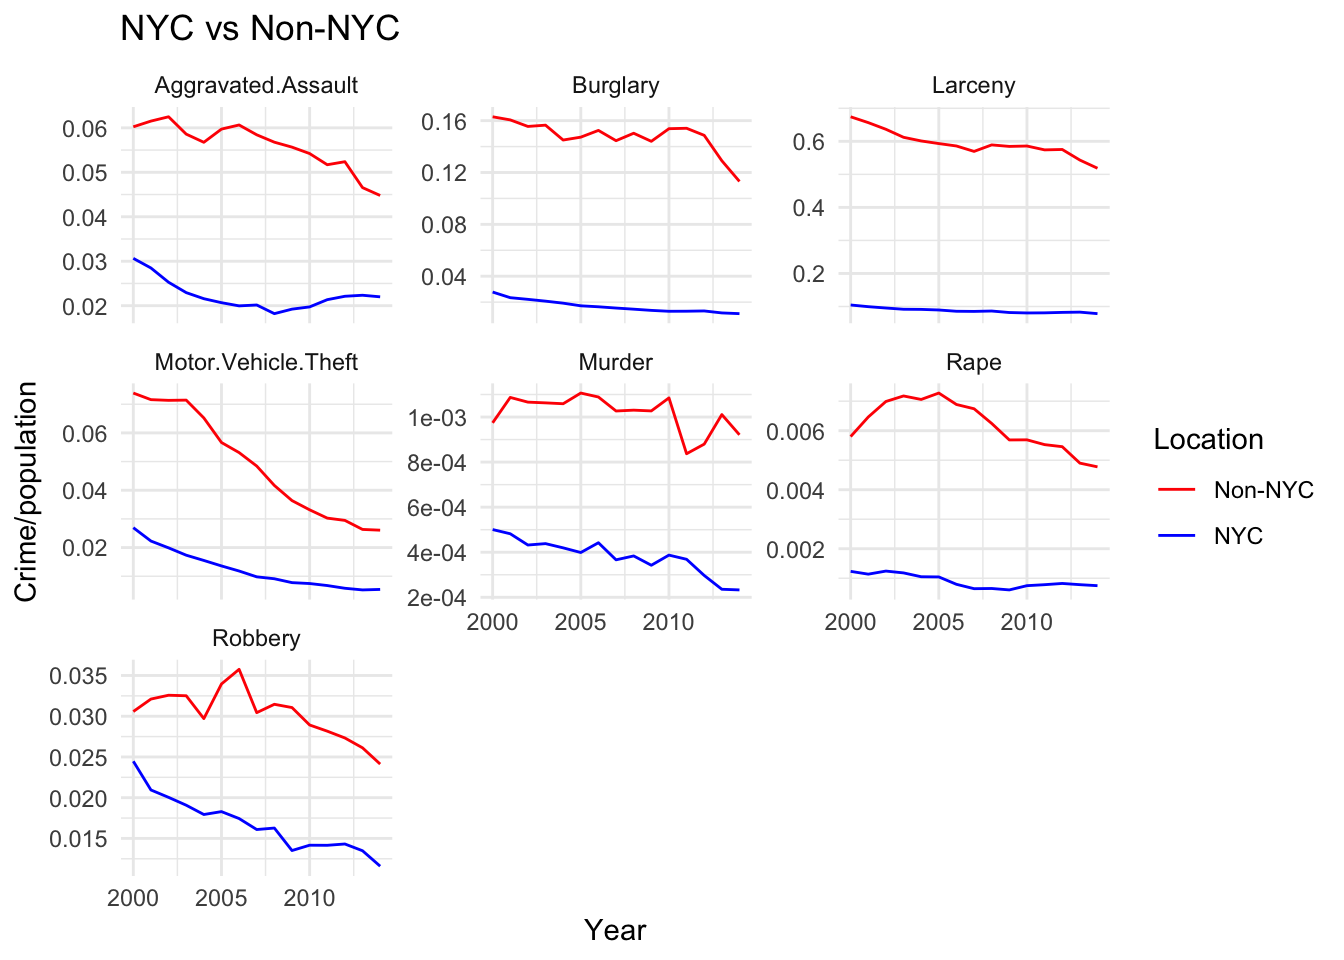
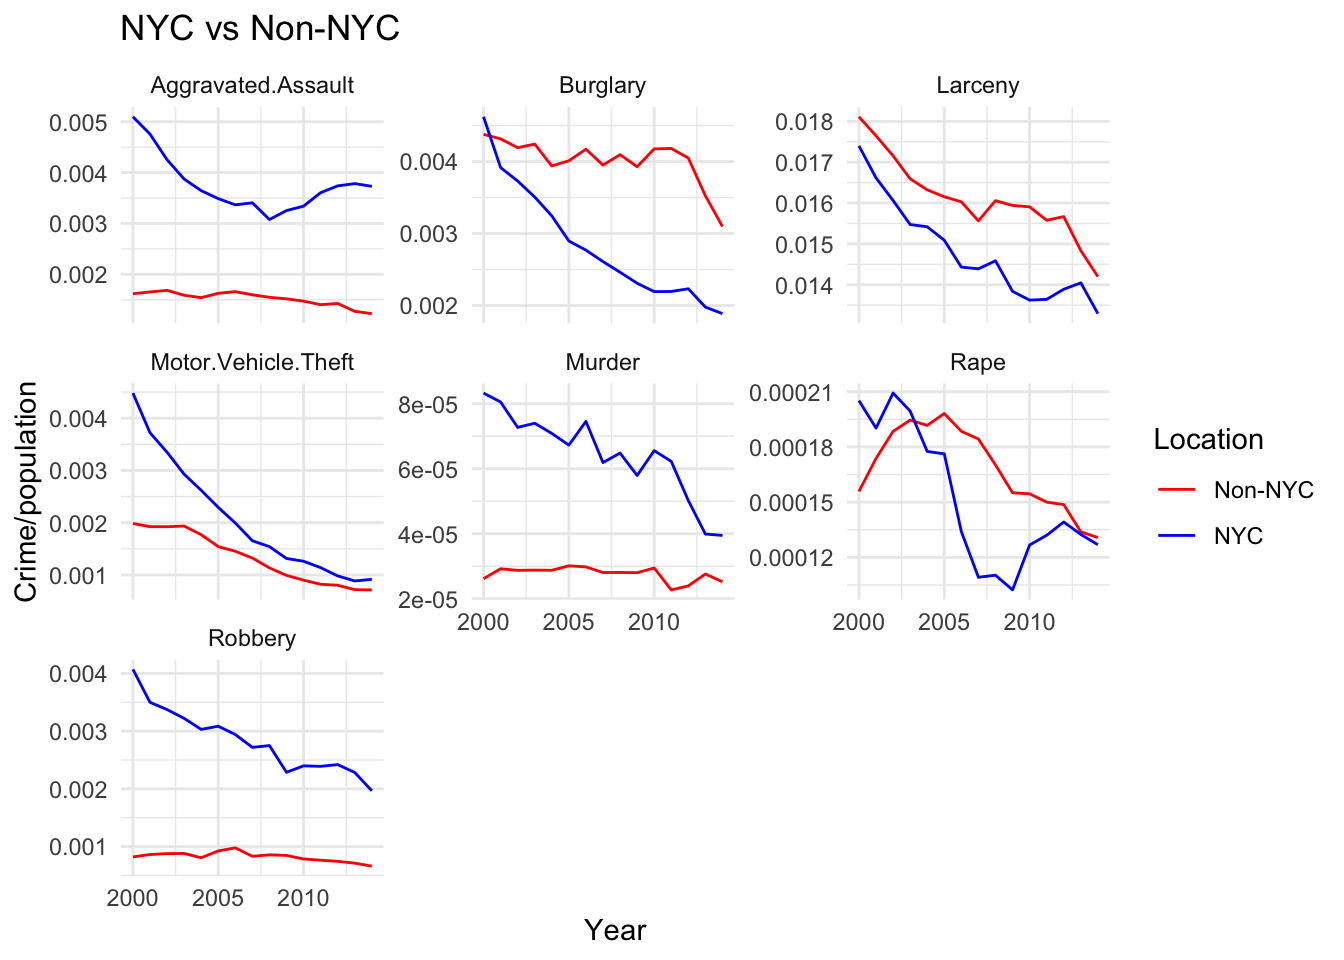
edits

Changed region(s): [[0.0312, 0.0625, 0.8125, 0.6562], [0.0312, 0.6562, 0.2812, 0.9688]]

diff --git a/docs/results.html b/docs/results.html
@@ -589,7 +589,7 @@ See &lt;https://tidyselect.r-lib.org/reference/faq-external-vector.html&gt;.</co
 <div class="sourceCode cell-code" id="cb20"><pre class="sourceCode r code-with-copy"><code class="sourceCode r"><span id="cb20-1"><a href="#cb20-1" aria-hidden="true" tabindex="-1"></a>NYC_long_summarized <span class="ot">&lt;-</span> NYC_long <span class="sc">%&gt;%</span></span>
 <span id="cb20-2"><a href="#cb20-2" aria-hidden="true" tabindex="-1"></a>  <span class="fu">group_by</span>(Year, Variable) <span class="sc">%&gt;%</span></span>
 <span id="cb20-3"><a href="#cb20-3" aria-hidden="true" tabindex="-1"></a>  <span class="fu">summarise</span>(<span class="at">Sum_Value =</span> <span class="fu">sum</span>(Value, <span class="at">na.rm =</span> <span class="cn">TRUE</span>),</span>
-<span id="cb20-4"><a href="#cb20-4" aria-hidden="true" tabindex="-1"></a>            <span class="at">Population =</span> <span class="fu">first</span>(Population)) <span class="sc">%&gt;%</span></span>
+<span id="cb20-4"><a href="#cb20-4" aria-hidden="true" tabindex="-1"></a>            <span class="at">Population =</span> <span class="fu">sum</span>(Population)) <span class="sc">%&gt;%</span></span>
 <span id="cb20-5"><a href="#cb20-5" aria-hidden="true" tabindex="-1"></a>  <span class="fu">ungroup</span>()</span></code><button title="Copy to Clipboard" class="code-copy-button"><i class="bi"></i></button></pre></div>
 </details>
 <div class="cell-output cell-output-stderr">
@@ -625,11 +625,12 @@ See &lt;https://tidyselect.r-lib.org/reference/faq-external-vector.html&gt;.</co
 <div class="sourceCode cell-code" id="cb23"><pre class="sourceCode r code-with-copy"><code class="sourceCode r"><span id="cb23-1"><a href="#cb23-1" aria-hidden="true" tabindex="-1"></a>non_NYC <span class="ot">&lt;-</span> crime_ny_with_fips_and_pop[crime_ny_with_fips_and_pop<span class="sc">$</span>Region <span class="sc">!=</span> <span class="st">'New York City'</span>, ]</span>
 <span id="cb23-2"><a href="#cb23-2" aria-hidden="true" tabindex="-1"></a>columns_to_plot <span class="ot">&lt;-</span> <span class="fu">c</span>(<span class="st">"Murder"</span>, <span class="st">"Rape"</span>, <span class="st">"Robbery"</span>, <span class="st">"Aggravated.Assault"</span>, <span class="st">"Burglary"</span>, <span class="st">"Larceny"</span>, <span class="st">"Motor.Vehicle.Theft"</span>)</span>
 <span id="cb23-3"><a href="#cb23-3" aria-hidden="true" tabindex="-1"></a>non_NYC_long <span class="ot">&lt;-</span> tidyr<span class="sc">::</span><span class="fu">gather</span>(non_NYC, <span class="at">key =</span> <span class="st">"Variable"</span>, <span class="at">value =</span> <span class="st">"Value"</span>, columns_to_plot)</span>
-<span id="cb23-4"><a href="#cb23-4" aria-hidden="true" tabindex="-1"></a>non_NYC_long_summarized <span class="ot">&lt;-</span> non_NYC_long <span class="sc">%&gt;%</span></span>
-<span id="cb23-5"><a href="#cb23-5" aria-hidden="true" tabindex="-1"></a>  <span class="fu">group_by</span>(Year, Variable) <span class="sc">%&gt;%</span></span>
-<span id="cb23-6"><a href="#cb23-6" aria-hidden="true" tabindex="-1"></a>  <span class="fu">summarise</span>(<span class="at">Sum_Value =</span> <span class="fu">sum</span>(Value, <span class="at">na.rm =</span> <span class="cn">TRUE</span>),</span>
-<span id="cb23-7"><a href="#cb23-7" aria-hidden="true" tabindex="-1"></a>            <span class="at">Population =</span> <span class="fu">first</span>(Population)) <span class="sc">%&gt;%</span></span>
-<span id="cb23-8"><a href="#cb23-8" aria-hidden="true" tabindex="-1"></a>  <span class="fu">ungroup</span>()</span></code><button title="Copy to Clipboard" class="code-copy-button"><i class="bi"></i></button></pre></div>
+<span id="cb23-4"><a href="#cb23-4" aria-hidden="true" tabindex="-1"></a></span>
+<span id="cb23-5"><a href="#cb23-5" aria-hidden="true" tabindex="-1"></a>non_NYC_long_summarized <span class="ot">&lt;-</span> non_NYC_long <span class="sc">%&gt;%</span></span>
+<span id="cb23-6"><a href="#cb23-6" aria-hidden="true" tabindex="-1"></a>  <span class="fu">group_by</span>(Year, Variable) <span class="sc">%&gt;%</span></span>
+<span id="cb23-7"><a href="#cb23-7" aria-hidden="true" tabindex="-1"></a>  <span class="fu">summarise</span>(<span class="at">Sum_Value =</span> <span class="fu">sum</span>(Value, <span class="at">na.rm =</span> <span class="cn">TRUE</span>),</span>
+<span id="cb23-8"><a href="#cb23-8" aria-hidden="true" tabindex="-1"></a>            <span class="at">Population =</span> <span class="fu">sum</span>(Population)) <span class="sc">%&gt;%</span></span>
+<span id="cb23-9"><a href="#cb23-9" aria-hidden="true" tabindex="-1"></a>  <span class="fu">ungroup</span>()</span></code><button title="Copy to Clipboard" class="code-copy-button"><i class="bi"></i></button></pre></div>
 </details>
 <div class="cell-output cell-output-stderr">
 <pre><code>`summarise()` has grouped output by 'Year'. You can override using the
@@ -711,15 +712,128 @@ See &lt;https://tidyselect.r-lib.org/reference/faq-external-vector.html&gt;.</co
 <span id="cb27-5"><a href="#cb27-5" aria-hidden="true" tabindex="-1"></a></span>
 <span id="cb27-6"><a href="#cb27-6" aria-hidden="true" tabindex="-1"></a><span class="fu">ggplot</span>(combined_NYC_bloomb, <span class="fu">aes</span>(<span class="at">x =</span> Year, <span class="at">y =</span> adjusted_value, <span class="at">color =</span> Location, <span class="at">group =</span> Location)) <span class="sc">+</span></span>
 <span id="cb27-7"><a href="#cb27-7" aria-hidden="true" tabindex="-1"></a>  <span class="fu">geom_line</span>() <span class="sc">+</span></span>
-<span id="cb27-8"><a href="#cb27-8" aria-hidden="true" tabindex="-1"></a>  <span class="fu">labs</span>(<span class="at">title =</span> <span class="st">"Adjusted Crime/population per Year for NYC vs Non-NYC"</span>,</span>
+<span id="cb27-8"><a href="#cb27-8" aria-hidden="true" tabindex="-1"></a>  <span class="fu">labs</span>(<span class="at">title =</span> <span class="st">"Adjusted NYC vs Non-NYC"</span>,</span>
 <span id="cb27-9"><a href="#cb27-9" aria-hidden="true" tabindex="-1"></a>       <span class="at">x =</span> <span class="st">"Year"</span>,</span>
-<span id="cb27-10"><a href="#cb27-10" aria-hidden="true" tabindex="-1"></a>       <span class="at">y =</span> <span class="st">"Adjusted Crime/population"</span>) <span class="sc">+</span></span>
+<span id="cb27-10"><a href="#cb27-10" aria-hidden="true" tabindex="-1"></a>       <span class="at">y =</span> <span class="st">"Adjusted"</span>) <span class="sc">+</span></span>
 <span id="cb27-11"><a href="#cb27-11" aria-hidden="true" tabindex="-1"></a>  <span class="fu">scale_color_manual</span>(<span class="at">values =</span> <span class="fu">c</span>(<span class="st">"NYC"</span> <span class="ot">=</span> <span class="st">"blue"</span>, <span class="st">"Non-NYC"</span> <span class="ot">=</span> <span class="st">"red"</span>)) <span class="sc">+</span></span>
 <span id="cb27-12"><a href="#cb27-12" aria-hidden="true" tabindex="-1"></a>  <span class="fu">theme_minimal</span>() <span class="sc">+</span></span>
 <span id="cb27-13"><a href="#cb27-13" aria-hidden="true" tabindex="-1"></a>  <span class="fu">facet_wrap</span>(<span class="sc">~</span>Variable, <span class="at">scales =</span> <span class="st">"free_y"</span>)</span></code><button title="Copy to Clipboard" class="code-copy-button"><i class="bi"></i></button></pre></div>
 </details>
 <div class="cell-output-display">
 <p><img src="results_files/figure-html/unnamed-chunk-14-1.png" class="img-fluid" width="672"></p>
+</div>
+</div>
+<div class="cell">
+<details>
+<summary>Code</summary>
+<div class="sourceCode cell-code" id="cb28"><pre class="sourceCode r code-with-copy"><code class="sourceCode r"><span id="cb28-1"><a href="#cb28-1" aria-hidden="true" tabindex="-1"></a>combined_NYC_bloomb <span class="ot">&lt;-</span> combined_NYC <span class="sc">%&gt;%</span></span>
+<span id="cb28-2"><a href="#cb28-2" aria-hidden="true" tabindex="-1"></a>  <span class="fu">filter</span>(Year <span class="sc">&gt;</span> <span class="dv">1980</span> <span class="sc">&amp;</span> Year <span class="sc">&lt;=</span><span class="dv">2002</span>) <span class="sc">%&gt;%</span></span>
+<span id="cb28-3"><a href="#cb28-3" aria-hidden="true" tabindex="-1"></a>  <span class="fu">group_by</span>(Variable, Location)</span>
+<span id="cb28-4"><a href="#cb28-4" aria-hidden="true" tabindex="-1"></a>combined_NYC_bloomb1 <span class="ot">&lt;-</span> combined_NYC_bloomb <span class="sc">%&gt;%</span></span>
+<span id="cb28-5"><a href="#cb28-5" aria-hidden="true" tabindex="-1"></a>  <span class="fu">group_by</span>(Year, Location) <span class="sc">%&gt;%</span></span>
+<span id="cb28-6"><a href="#cb28-6" aria-hidden="true" tabindex="-1"></a>  <span class="fu">summarise</span>(<span class="at">Sum_Value =</span> <span class="fu">sum</span>(Sum_Value, <span class="at">na.rm =</span> <span class="cn">TRUE</span>),</span>
+<span id="cb28-7"><a href="#cb28-7" aria-hidden="true" tabindex="-1"></a>            <span class="at">Population =</span> <span class="fu">sum</span>(Population)) <span class="sc">%&gt;%</span></span>
+<span id="cb28-8"><a href="#cb28-8" aria-hidden="true" tabindex="-1"></a>  <span class="fu">ungroup</span>()</span></code><button title="Copy to Clipboard" class="code-copy-button"><i class="bi"></i></button></pre></div>
+</details>
+<div class="cell-output cell-output-stderr">
+<pre><code>`summarise()` has grouped output by 'Year'. You can override using the
+`.groups` argument.</code></pre>
+</div>
+<details>
+<summary>Code</summary>
+<div class="sourceCode cell-code" id="cb30"><pre class="sourceCode r code-with-copy"><code class="sourceCode r"><span id="cb30-1"><a href="#cb30-1" aria-hidden="true" tabindex="-1"></a>combined_NYC_bloomb1 <span class="ot">&lt;-</span> combined_NYC_bloomb1 <span class="sc">%&gt;%</span></span>
+<span id="cb30-2"><a href="#cb30-2" aria-hidden="true" tabindex="-1"></a>  <span class="fu">group_by</span>(Location) <span class="sc">%&gt;%</span> </span>
+<span id="cb30-3"><a href="#cb30-3" aria-hidden="true" tabindex="-1"></a>  <span class="fu">mutate</span>(<span class="at">adjusted_value =</span> Sum_Value<span class="sc">/</span>Population <span class="sc">-</span> <span class="fu">first</span>(Sum_Value<span class="sc">/</span>Population))</span>
+<span id="cb30-4"><a href="#cb30-4" aria-hidden="true" tabindex="-1"></a></span>
+<span id="cb30-5"><a href="#cb30-5" aria-hidden="true" tabindex="-1"></a>combined_NYC_bloomb <span class="ot">&lt;-</span> combined_NYC <span class="sc">%&gt;%</span></span>
+<span id="cb30-6"><a href="#cb30-6" aria-hidden="true" tabindex="-1"></a>  <span class="fu">filter</span>(Year <span class="sc">&gt;=</span> <span class="dv">2002</span> <span class="sc">&amp;</span> Year <span class="sc">&lt;=</span><span class="dv">2012</span>) <span class="sc">%&gt;%</span></span>
+<span id="cb30-7"><a href="#cb30-7" aria-hidden="true" tabindex="-1"></a>  <span class="fu">group_by</span>(Variable, Location)</span>
+<span id="cb30-8"><a href="#cb30-8" aria-hidden="true" tabindex="-1"></a>combined_NYC_bloomb2 <span class="ot">&lt;-</span> combined_NYC_bloomb <span class="sc">%&gt;%</span></span>
+<span id="cb30-9"><a href="#cb30-9" aria-hidden="true" tabindex="-1"></a>  <span class="fu">group_by</span>(Year, Location) <span class="sc">%&gt;%</span></span>
+<span id="cb30-10"><a href="#cb30-10" aria-hidden="true" tabindex="-1"></a>  <span class="fu">summarise</span>(<span class="at">Sum_Value =</span> <span class="fu">sum</span>(Sum_Value, <span class="at">na.rm =</span> <span class="cn">TRUE</span>),</span>
+<span id="cb30-11"><a href="#cb30-11" aria-hidden="true" tabindex="-1"></a>            <span class="at">Population =</span> <span class="fu">sum</span>(Population)) <span class="sc">%&gt;%</span></span>
+<span id="cb30-12"><a href="#cb30-12" aria-hidden="true" tabindex="-1"></a>  <span class="fu">ungroup</span>()</span></code><button title="Copy to Clipboard" class="code-copy-button"><i class="bi"></i></button></pre></div>
+</details>
+<div class="cell-output cell-output-stderr">
+<pre><code>`summarise()` has grouped output by 'Year'. You can override using the
+`.groups` argument.</code></pre>
+</div>
+<details>
+<summary>Code</summary>
+<div class="sourceCode cell-code" id="cb32"><pre class="sourceCode r code-with-copy"><code class="sourceCode r"><span id="cb32-1"><a href="#cb32-1" aria-hidden="true" tabindex="-1"></a>combined_NYC_bloomb2 <span class="ot">&lt;-</span> combined_NYC_bloomb2 <span class="sc">%&gt;%</span></span>
+<span id="cb32-2"><a href="#cb32-2" aria-hidden="true" tabindex="-1"></a>  <span class="fu">group_by</span>(Location) <span class="sc">%&gt;%</span> </span>
+<span id="cb32-3"><a href="#cb32-3" aria-hidden="true" tabindex="-1"></a>  <span class="fu">mutate</span>(<span class="at">adjusted_value =</span> Sum_Value<span class="sc">/</span>Population <span class="sc">-</span> <span class="fu">first</span>(Sum_Value<span class="sc">/</span>Population))</span>
+<span id="cb32-4"><a href="#cb32-4" aria-hidden="true" tabindex="-1"></a></span>
+<span id="cb32-5"><a href="#cb32-5" aria-hidden="true" tabindex="-1"></a>combined_NYC_bloomb <span class="ot">&lt;-</span> combined_NYC <span class="sc">%&gt;%</span></span>
+<span id="cb32-6"><a href="#cb32-6" aria-hidden="true" tabindex="-1"></a>  <span class="fu">filter</span>(Year <span class="sc">&gt;=</span> <span class="dv">2012</span> <span class="sc">&amp;</span> Year <span class="sc">&lt;=</span><span class="dv">2042</span>) <span class="sc">%&gt;%</span></span>
+<span id="cb32-7"><a href="#cb32-7" aria-hidden="true" tabindex="-1"></a>  <span class="fu">group_by</span>(Variable, Location)</span>
+<span id="cb32-8"><a href="#cb32-8" aria-hidden="true" tabindex="-1"></a>combined_NYC_bloomb3 <span class="ot">&lt;-</span> combined_NYC_bloomb <span class="sc">%&gt;%</span></span>
+<span id="cb32-9"><a href="#cb32-9" aria-hidden="true" tabindex="-1"></a>  <span class="fu">group_by</span>(Year, Location) <span class="sc">%&gt;%</span></span>
+<span id="cb32-10"><a href="#cb32-10" aria-hidden="true" tabindex="-1"></a>  <span class="fu">summarise</span>(<span class="at">Sum_Value =</span> <span class="fu">sum</span>(Sum_Value, <span class="at">na.rm =</span> <span class="cn">TRUE</span>),</span>
+<span id="cb32-11"><a href="#cb32-11" aria-hidden="true" tabindex="-1"></a>            <span class="at">Population =</span> <span class="fu">sum</span>(Population)) <span class="sc">%&gt;%</span></span>
+<span id="cb32-12"><a href="#cb32-12" aria-hidden="true" tabindex="-1"></a>  <span class="fu">ungroup</span>()</span></code><button title="Copy to Clipboard" class="code-copy-button"><i class="bi"></i></button></pre></div>
+</details>
+<div class="cell-output cell-output-stderr">
+<pre><code>`summarise()` has grouped output by 'Year'. You can override using the
+`.groups` argument.</code></pre>
+</div>
+<details>
+<summary>Code</summary>
+<div class="sourceCode cell-code" id="cb34"><pre class="sourceCode r code-with-copy"><code class="sourceCode r"><span id="cb34-1"><a href="#cb34-1" aria-hidden="true" tabindex="-1"></a>combined_NYC_bloomb3 <span class="ot">&lt;-</span> combined_NYC_bloomb3 <span class="sc">%&gt;%</span></span>
+<span id="cb34-2"><a href="#cb34-2" aria-hidden="true" tabindex="-1"></a>  <span class="fu">group_by</span>(Location) <span class="sc">%&gt;%</span> </span>
+<span id="cb34-3"><a href="#cb34-3" aria-hidden="true" tabindex="-1"></a>  <span class="fu">mutate</span>(<span class="at">adjusted_value =</span> Sum_Value<span class="sc">/</span>Population <span class="sc">-</span> <span class="fu">first</span>(Sum_Value<span class="sc">/</span>Population))</span>
+<span id="cb34-4"><a href="#cb34-4" aria-hidden="true" tabindex="-1"></a></span>
+<span id="cb34-5"><a href="#cb34-5" aria-hidden="true" tabindex="-1"></a><span class="fu">ggplot</span>(combined_NYC_bloomb1, <span class="fu">aes</span>(<span class="at">x =</span> Year, <span class="at">y =</span> adjusted_value, <span class="at">color =</span> Location, <span class="at">group =</span> Location)) <span class="sc">+</span></span>
+<span id="cb34-6"><a href="#cb34-6" aria-hidden="true" tabindex="-1"></a>  <span class="fu">geom_line</span>() <span class="sc">+</span></span>
+<span id="cb34-7"><a href="#cb34-7" aria-hidden="true" tabindex="-1"></a>  <span class="fu">labs</span>(<span class="at">title =</span> <span class="st">"NYC vs Non-NYC"</span>,</span>
+<span id="cb34-8"><a href="#cb34-8" aria-hidden="true" tabindex="-1"></a>       <span class="at">x =</span> <span class="st">"Year"</span>,</span>
+<span id="cb34-9"><a href="#cb34-9" aria-hidden="true" tabindex="-1"></a>       <span class="at">y =</span> <span class="st">"Crime/population"</span>) <span class="sc">+</span></span>
+<span id="cb34-10"><a href="#cb34-10" aria-hidden="true" tabindex="-1"></a>  <span class="fu">scale_color_manual</span>(<span class="at">values =</span> <span class="fu">c</span>(<span class="st">"NYC"</span> <span class="ot">=</span> <span class="st">"blue"</span>, <span class="st">"Non-NYC"</span> <span class="ot">=</span> <span class="st">"red"</span>)) <span class="sc">+</span></span>
+<span id="cb34-11"><a href="#cb34-11" aria-hidden="true" tabindex="-1"></a>  <span class="fu">theme_minimal</span>()</span></code><button title="Copy to Clipboard" class="code-copy-button"><i class="bi"></i></button></pre></div>
+</details>
+<div class="cell-output-display">
+<p><img src="results_files/figure-html/unnamed-chunk-15-1.png" class="img-fluid" width="672"></p>
+</div>
+<details>
+<summary>Code</summary>
+<div class="sourceCode cell-code" id="cb35"><pre class="sourceCode r code-with-copy"><code class="sourceCode r"><span id="cb35-1"><a href="#cb35-1" aria-hidden="true" tabindex="-1"></a><span class="fu">ggplot</span>(combined_NYC_bloomb2, <span class="fu">aes</span>(<span class="at">x =</span> Year, <span class="at">y =</span> adjusted_value, <span class="at">color =</span> Location, <span class="at">group =</span> Location)) <span class="sc">+</span></span>
+<span id="cb35-2"><a href="#cb35-2" aria-hidden="true" tabindex="-1"></a>  <span class="fu">geom_line</span>() <span class="sc">+</span></span>
+<span id="cb35-3"><a href="#cb35-3" aria-hidden="true" tabindex="-1"></a>  <span class="fu">labs</span>(<span class="at">title =</span> <span class="st">"NYC vs Non-NYC"</span>,</span>
+<span id="cb35-4"><a href="#cb35-4" aria-hidden="true" tabindex="-1"></a>       <span class="at">x =</span> <span class="st">"Year"</span>,</span>
+<span id="cb35-5"><a href="#cb35-5" aria-hidden="true" tabindex="-1"></a>       <span class="at">y =</span> <span class="st">"Crime/population"</span>) <span class="sc">+</span></span>
+<span id="cb35-6"><a href="#cb35-6" aria-hidden="true" tabindex="-1"></a>  <span class="fu">scale_color_manual</span>(<span class="at">values =</span> <span class="fu">c</span>(<span class="st">"NYC"</span> <span class="ot">=</span> <span class="st">"blue"</span>, <span class="st">"Non-NYC"</span> <span class="ot">=</span> <span class="st">"red"</span>)) <span class="sc">+</span></span>
+<span id="cb35-7"><a href="#cb35-7" aria-hidden="true" tabindex="-1"></a>  <span class="fu">theme_minimal</span>()</span></code><button title="Copy to Clipboard" class="code-copy-button"><i class="bi"></i></button></pre></div>
+</details>
+<div class="cell-output-display">
+<p><img src="results_files/figure-html/unnamed-chunk-15-2.png" class="img-fluid" width="672"></p>
+</div>
+<details>
+<summary>Code</summary>
+<div class="sourceCode cell-code" id="cb36"><pre class="sourceCode r code-with-copy"><code class="sourceCode r"><span id="cb36-1"><a href="#cb36-1" aria-hidden="true" tabindex="-1"></a><span class="fu">ggplot</span>(combined_NYC_bloomb3, <span class="fu">aes</span>(<span class="at">x =</span> Year, <span class="at">y =</span> adjusted_value, <span class="at">color =</span> Location, <span class="at">group =</span> Location)) <span class="sc">+</span></span>
+<span id="cb36-2"><a href="#cb36-2" aria-hidden="true" tabindex="-1"></a>  <span class="fu">geom_line</span>() <span class="sc">+</span></span>
+<span id="cb36-3"><a href="#cb36-3" aria-hidden="true" tabindex="-1"></a>  <span class="fu">labs</span>(<span class="at">title =</span> <span class="st">"NYC vs Non-NYC"</span>,</span>
+<span id="cb36-4"><a href="#cb36-4" aria-hidden="true" tabindex="-1"></a>       <span class="at">x =</span> <span class="st">"Year"</span>,</span>
+<span id="cb36-5"><a href="#cb36-5" aria-hidden="true" tabindex="-1"></a>       <span class="at">y =</span> <span class="st">"Crime/population"</span>) <span class="sc">+</span></span>
+<span id="cb36-6"><a href="#cb36-6" aria-hidden="true" tabindex="-1"></a>  <span class="fu">scale_color_manual</span>(<span class="at">values =</span> <span class="fu">c</span>(<span class="st">"NYC"</span> <span class="ot">=</span> <span class="st">"blue"</span>, <span class="st">"Non-NYC"</span> <span class="ot">=</span> <span class="st">"red"</span>)) <span class="sc">+</span></span>
+<span id="cb36-7"><a href="#cb36-7" aria-hidden="true" tabindex="-1"></a>  <span class="fu">theme_minimal</span>()</span></code><button title="Copy to Clipboard" class="code-copy-button"><i class="bi"></i></button></pre></div>
+</details>
+<div class="cell-output-display">
+<p><img src="results_files/figure-html/unnamed-chunk-15-3.png" class="img-fluid" width="672"></p>
+</div>
+</div>
+<div class="cell">
+<details>
+<summary>Code</summary>
+<div class="sourceCode cell-code" id="cb37"><pre class="sourceCode r code-with-copy"><code class="sourceCode r"><span id="cb37-1"><a href="#cb37-1" aria-hidden="true" tabindex="-1"></a><span class="fu">ggplot</span>(combined_NYC, <span class="fu">aes</span>(<span class="at">x=</span>Year, <span class="at">y=</span>Sum_Value, <span class="at">fill=</span>Variable)) <span class="sc">+</span> </span>
+<span id="cb37-2"><a href="#cb37-2" aria-hidden="true" tabindex="-1"></a>    <span class="fu">geom_area</span>()<span class="sc">+</span></span>
+<span id="cb37-3"><a href="#cb37-3" aria-hidden="true" tabindex="-1"></a>  <span class="fu">labs</span>(<span class="at">title =</span> <span class="st">"Stacked Area Plot of Crime Types"</span>,</span>
+<span id="cb37-4"><a href="#cb37-4" aria-hidden="true" tabindex="-1"></a>       <span class="at">x =</span> <span class="st">"Year"</span>,</span>
+<span id="cb37-5"><a href="#cb37-5" aria-hidden="true" tabindex="-1"></a>       <span class="at">y =</span> <span class="st">"Crime"</span>)<span class="sc">+</span></span>
+<span id="cb37-6"><a href="#cb37-6" aria-hidden="true" tabindex="-1"></a>  <span class="fu">theme_minimal</span>()<span class="sc">+</span></span>
+<span id="cb37-7"><a href="#cb37-7" aria-hidden="true" tabindex="-1"></a>  <span class="fu">facet_wrap</span>(<span class="sc">~</span>Location, <span class="at">ncol =</span> <span class="dv">1</span>)</span></code><button title="Copy to Clipboard" class="code-copy-button"><i class="bi"></i></button></pre></div>
+</details>
+<div class="cell-output-display">
+<p><img src="results_files/figure-html/unnamed-chunk-16-1.png" class="img-fluid" width="672"></p>
 </div>
 </div>
 <!-- 

diff --git a/docs/index.html b/docs/index.html
@@ -8,7 +8,7 @@
 
 <meta name="author" content="Elie Chemouni (ec3778)">
 <meta name="author" content="Martin Fluder (mf3590)">
-<meta name="dcterms.date" content="2023-12-01">
+<meta name="dcterms.date" content="2023-12-03">
 
 <title>Crime in NY</title>
 <style>
@@ -171,7 +171,7 @@ ul.task-list li input[type="checkbox"] {
     <div>
     <div class="quarto-title-meta-heading">Published</div>
     <div class="quarto-title-meta-contents">
-      <p class="date">December 1, 2023</p>
+      <p class="date">December 3, 2023</p>
     </div>
   </div>
   
